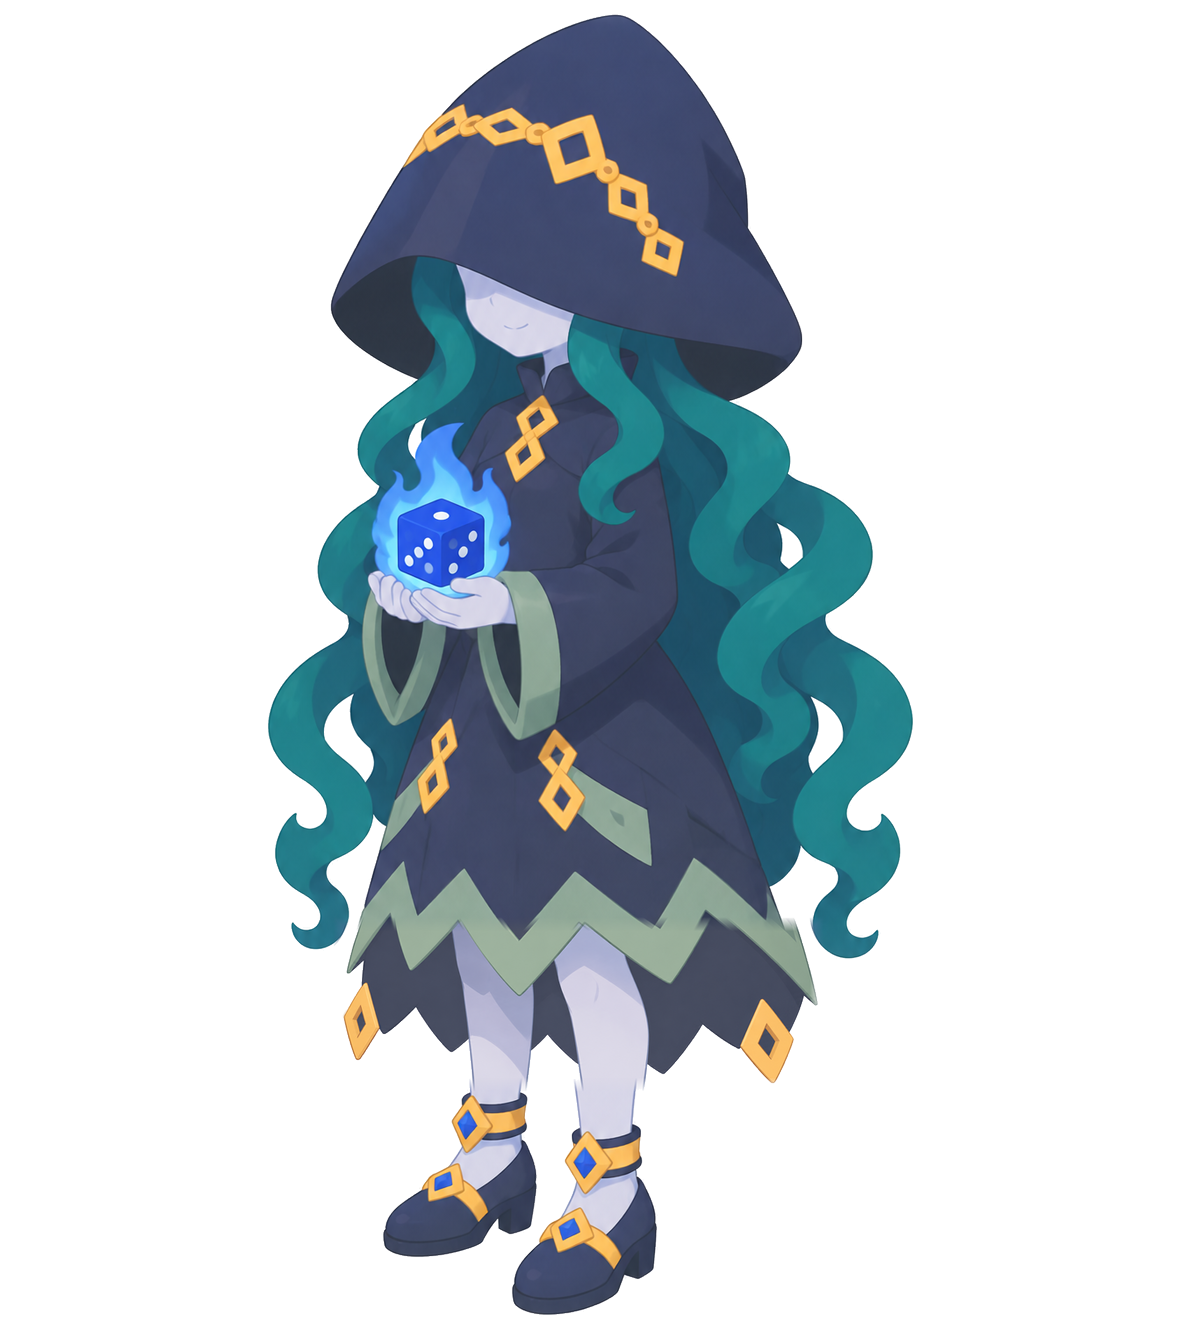
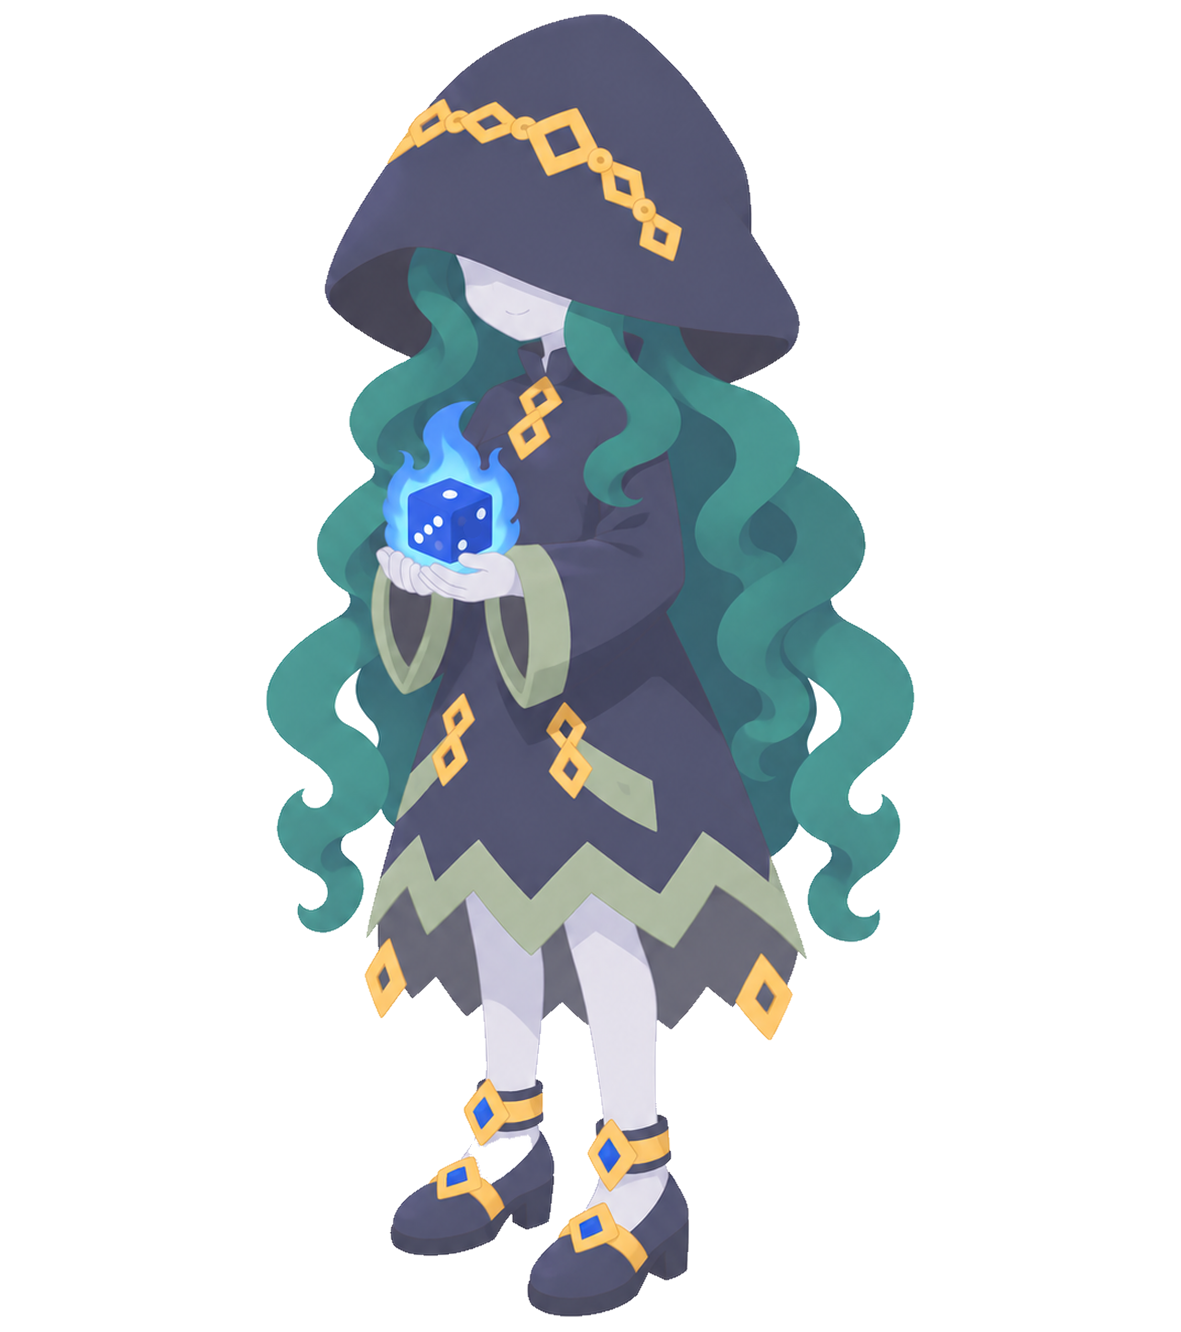
art: 51차 — 확정 몬스터 12종 모험가 화풍판 적용(이전본 _reference 보관)

Changed region(s): [[0.2134, 0.1231, 0.7925, 1.0], [0.3353, 0.0, 0.6706, 0.2155], [0.5487, 0.0308, 0.5792, 0.0616]]

diff --git a/docs/art/ART_QUEUE.md b/docs/art/ART_QUEUE.md
@@ -17,7 +17,7 @@
 |---|---|---|---|
 | 0 | 긴급 | **곡예사 표정(게임 원본) 팔·주사위** — 손 3개 수정(bd79075)은 입가 손이 팔에 안 이어지고 왼쪽 소매엔 손이 없음 + 주사위 눈금 배치 오류. 구멍은 67f5ecc로 메움. 남은 것: 입가 손을 왼쪽 소매 팔에 연결, 두 주사위 1·2·3 → 적용·Work 통보. 화풍판 기본·웃음도 같은 문제 | 진행 중 (GPT 한도 소진, 11-12 10:57 이후) |
 | 1 | 보스 디자인 | **점액 군주** — om3(칼·해골·다이아 제거) → om5(왕관 원래 디자인 약간 단순화 + 외곽선 정리) → om6a(대비↑) → 왕관이 머리에 반쯤 묻히는 안: om7/8/9는 머리가 눌리고 링 주변이 두툼해져 실패 → om10(om6a 기준, 머리 높이 유지·링 두툼함 없음, 기울기는 아직 수평) | 컨펌 대기 (om10) |
-| 2 | 화풍 통일 | **확정 몬스터 12종 모험가판** (고블린·방패 고블린·산적·경비병·늑대·안개·그림자·구울·좀비·저주 인형·심연의 불·심연의 아이). 외곽선 제거(r52) → 사용자 확인: 늑대·안개·아이 외 OK → 늑대·안개(보석·리본 짙게)·아이 + 12종 주사위 전수 점검(그림자·고블린·방패 고블린도 수정) → r53 | 컨펌 대기 (r53) |
+| 2 | 화풍 통일 | ✅ (2026-11-12 적용) **확정 몬스터 12종 모험가판** (고블린·방패 고블린·산적·경비병·늑대·안개·그림자·구울·좀비·저주 인형·심연의 불·심연의 아이). 외곽선 제거(r52) → 사용자 확인: 늑대·안개·아이 외 OK → 늑대·안개(보석·리본 짙게)·아이 + 12종 주사위 전수 점검(그림자·고블린·방패 고블린도 수정) → r53 | 완료 |
 | 3 | 화풍 통일 | **캐릭터 표정 35장**(7명 × 5표정) 새 전신 기준 재작업 → 적용, Work 통보 (Work 요청). 사용자: 대부분 이견 없음, 컨펌은 나중에. 곡예사 기본·웃음은 #0과 같은 팔 연결 문제 | 컨펌 대기 (r52_faces35) |
 | 4 | 수정 중 몬스터 | 각 수정본 → 피드백 확인 → 모험가판 화풍까지 한 번에: ① 아머 고블린(rs14 어깨 갑주) ② 오크(색) ③ 광견 ④ 독거미 ⑤ 산양 ⑥ 암흑 늑대(dw2) ⑦ 심연의 사제(손가락) ⑧ 미믹 | 대기 |
 | 5 | 보스 마무리 | ① 공허의 눈(b25 / 단순화 vs1 선택) ② 영계의 지배자(발) ③ 광란의 마수 → 각 모험가판 → 보스 6종 일괄 나열 컨펌 | 대기 |

diff --git a/docs/art/ART_RESOURCES.md b/docs/art/ART_RESOURCES.md
@@ -842,3 +842,5 @@ Work는 `resources/ui/` 이미지가 있으면 StyleBoxTexture로 쓰고, 없으
 ## 5. 결정 필요 (사용자 확인 대기)
 
 - (현재 없음 — 2026-10-06 4건 모두 결정, 상단 "확정된 방향" 참고)
+
+- 51차(2026-11-12): ✅ **확정 몬스터 12종 모험가판 적용** — 고블린·방패 고블린·산적·경비병·늑대·안개·그림자·구울·좀비·저주 인형·심연의 불·심연의 아이(r51→외곽선 제거 r52→주사위 전수 점검·늑대·안개 보석/리본·아이 r53 컨펌). 이전본 `_reference/monsters/<id>/full_before_novice_style.png`. 안개는 창백해서 `bg_strict.gd`로 배경 제거. 유령은 미컨펌으로 제외(순서표 6단계).
